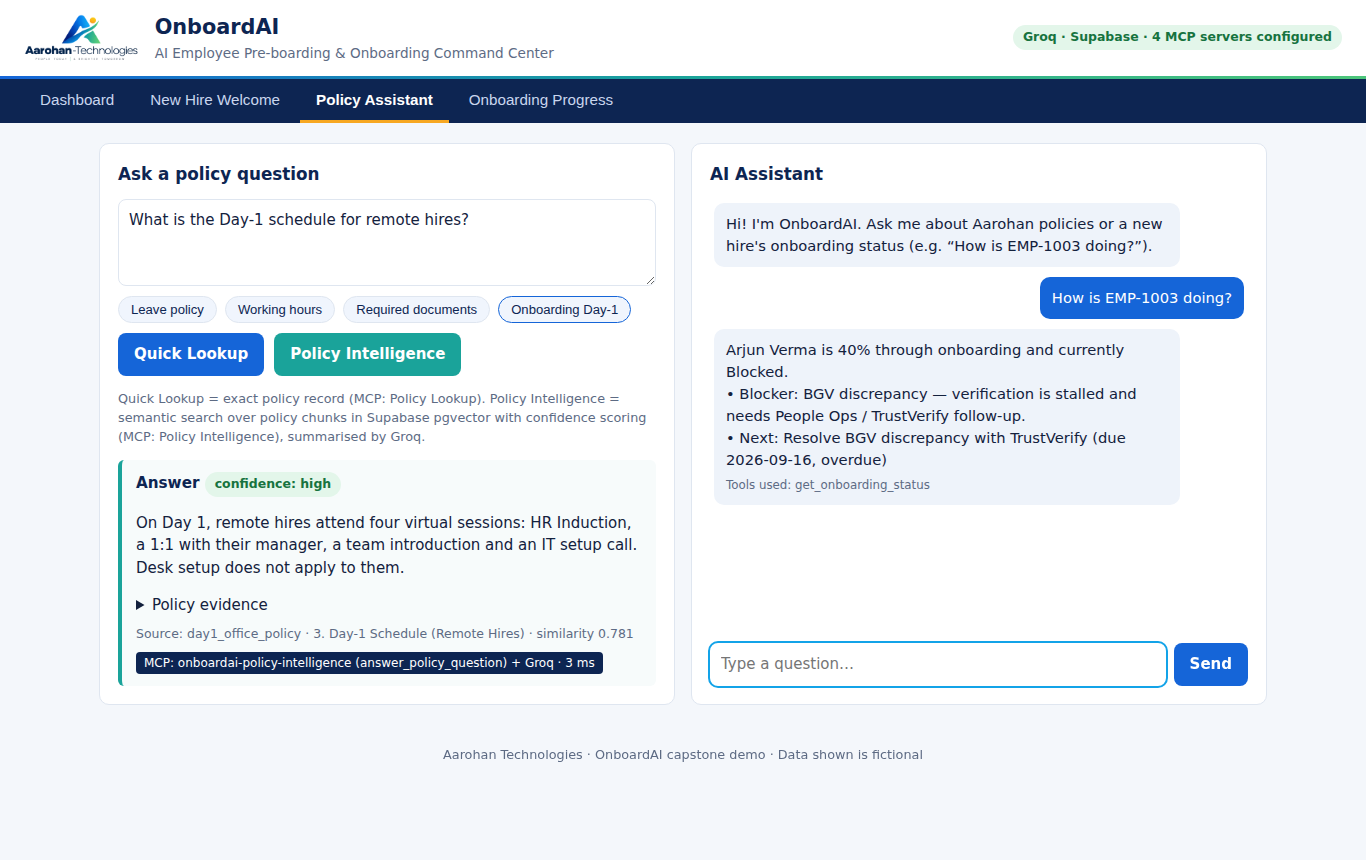
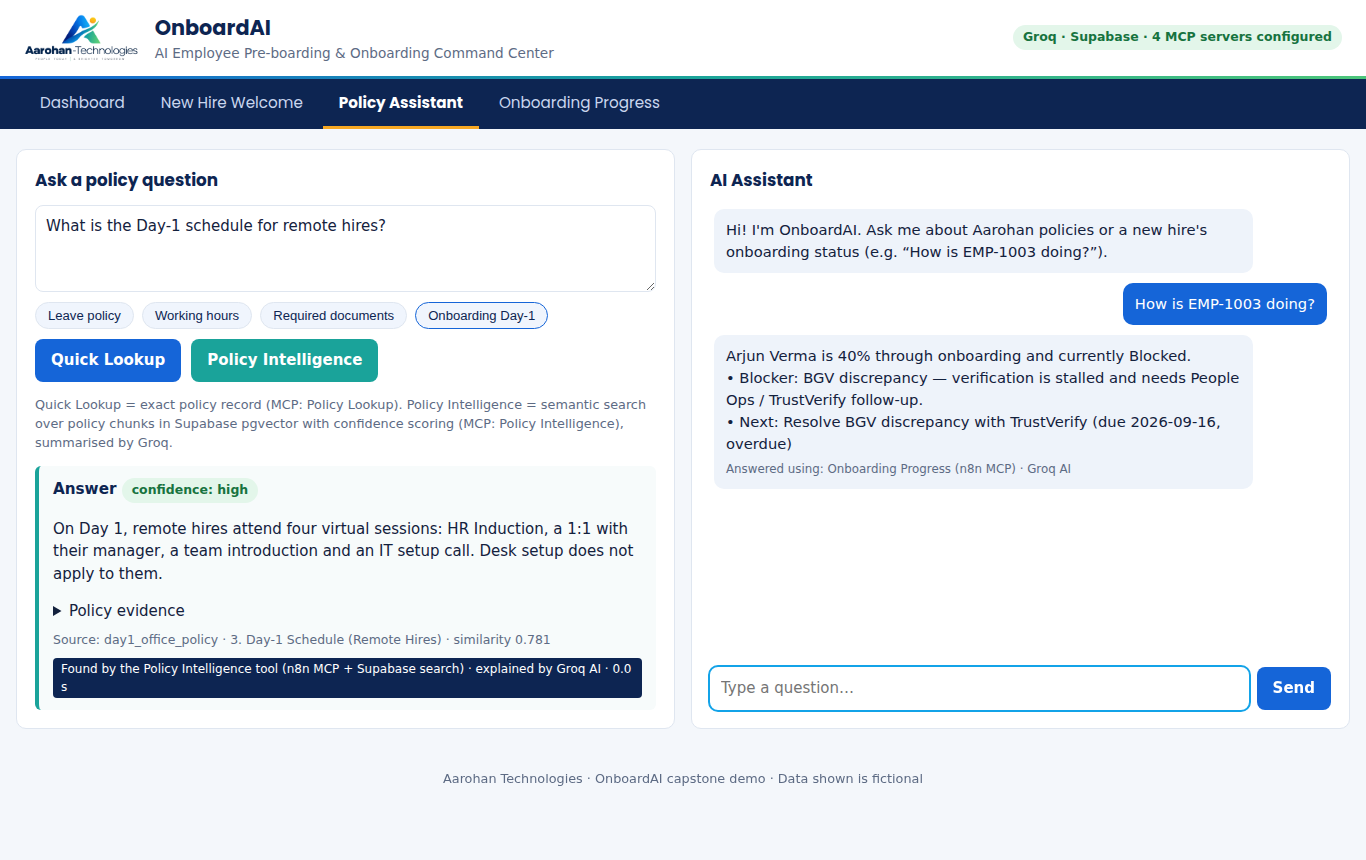
Add files via upload

diff --git a/public/app.js b/public/app.js
@@ -4,6 +4,13 @@ const $ = (s) => document.querySelector(s);
 const esc = (v) => String(v ?? '').replace(/[&<>"']/g, (c) => ({ '&': '&amp;', '<': '&lt;', '>': '&gt;', '"': '&quot;', "'": '&#39;' }[c]));
 let employees = [];
 let chatHistory = [];
+let draftMessage = '';
+const secs = (ms) => (ms ? ` · ${(ms / 1000).toFixed(1)} s` : '');
+const TOOL_NAMES = {
+  get_policy: 'Policy Lookup (n8n MCP)', answer_policy_question: 'Policy Intelligence (n8n MCP)',
+  get_onboarding_status: 'Onboarding Progress (n8n MCP)', list_new_hires: 'New-hire list (Supabase)',
+  escalate_to_human: 'Escalated to People Ops',
+};
 
 async function api(path, body) {
   const res = await fetch('/api' + path, body ? {
@@ -77,23 +84,26 @@ $('#btn-preview').addEventListener('click', async (ev) => {
   try {
     const r = await api('/welcome/preview', { employee_id: id });
     $('#welcome-out').classList.remove('muted');
+    draftMessage = r.message;
     $('#welcome-out').textContent = r.message;
     const emp = r.employee;
     $('#btn-send').disabled = !emp.email;
-    $('#send-out').innerHTML = `<p class="hint">Will email <b>${esc(emp.email || 'no email on file')}</b>${emp.is_virtual ? ' and create a Google Calendar orientation invite (virtual role)' : ' (office role — no calendar invite)'}.</p>`;
+    $('#send-out').innerHTML = `<span class="mcp-badge">${esc(r.source)}</span><p class="hint">Will email <b>${esc(emp.email || 'no email on file')}</b>${emp.is_virtual ? ' and create a Google Calendar orientation invite (virtual role)' : ' (office role — no calendar invite)'}.</p>`;
   } catch (e) { $('#welcome-out').innerHTML = errorBox(e.message); }
   busy(ev.target, false);
 });
+
+$('#welcome-emp').addEventListener('change', () => { draftMessage = ''; $('#btn-send').disabled = true; });
 
 $('#btn-send').addEventListener('click', async (ev) => {
   const id = $('#welcome-emp').value; if (!id) return;
   busy(ev.target, true, 'Calling New Hire Welcome MCP…');
   try {
-    const r = await api('/welcome/send', { employee_id: id });
+    const r = await api('/welcome/send', { employee_id: id, message: draftMessage });
     const d = r.result || {};
     $('#send-out').innerHTML = `<div class="result"><h3>${statusPill(d.overall_status === 'Success' ? 'Complete' : d.overall_status)} ${esc(d.employee_name || id)}</h3>
       Email: <b>${esc(d.email_status)}</b><br>Calendar: <b>${esc(d.calendar_status)}</b>
-      <span class="mcp-badge">${esc(r.source)} · ${r.ms} ms</span></div>`;
+      <span class="mcp-badge">${esc(r.source)}${secs(r.ms)}</span></div>`;
     loadEmployees();
   } catch (e) { $('#send-out').innerHTML = errorBox(e.message); }
   busy(ev.target, false);
@@ -132,13 +142,13 @@ async function askPolicy(mode, btn) {
         ${d.human_review_required ? '<span class="pill warn">human review advised</span>' : ''}</h3>
         ${r.summary ? `<p>${esc(r.summary)}</p><details><summary>Policy evidence</summary><p>${esc(d.answer)}</p></details>` : `<p>${esc(d.answer)}</p>`}
         <span class="source">Source: ${esc(d.source_document || '—')} ${d.source_section ? '· ' + esc(d.source_section) : ''} · similarity ${esc(d.similarity)}</span>
-        <span class="mcp-badge">${esc(r.source)} · ${r.ms} ms</span></div>`;
+        <span class="mcp-badge">${esc(r.source)}${secs(r.ms)}</span></div>`;
     } else {
       const d = r.result || {};
       out.innerHTML = d.status === 'Found'
         ? `<div class="result"><h3>${esc(d.title)}</h3><p>${esc(d.answer)}</p>
            <span class="source">Source: ${/^https?:/.test(d.source_document) ? `<a href="${esc(d.source_document)}" target="_blank" rel="noopener">policy document (Google Drive)</a>` : esc(d.source_document)}</span>
-           <span class="mcp-badge">${esc(r.source)} · ${r.ms} ms</span></div>`
+           <span class="mcp-badge">${esc(r.source)}${secs(r.ms)}</span></div>`
         : `<div class="result error"><h3>No matching policy found</h3>Try Policy Intelligence, or contact People Ops.<span class="mcp-badge">${esc(r.source)}</span></div>`;
     }
   } catch (e) { out.innerHTML = errorBox(e.message); }
@@ -159,7 +169,7 @@ function addMsg(role, text, tools) {
   if (tools?.length) {
     const t = document.createElement('span');
     t.className = 'tools';
-    t.textContent = 'Tools used: ' + tools.map((x) => `${x.tool}${x.ok ? '' : ' (failed)'}`).join(', ');
+    t.textContent = 'Answered using: ' + tools.map((x) => `${TOOL_NAMES[x.tool] || x.tool}${x.ok ? '' : ' (failed)'}`).join(', ') + (tools.some((x) => x.tool === 'escalate_to_human' || x.tool.startsWith('Groq')) ? '' : ' · Groq AI');
     div.appendChild(t);
   }
   $('#chat-log').appendChild(div);
@@ -177,7 +187,7 @@ $('#chat-form').addEventListener('submit', async (ev) => {
   try {
     const r = await api('/chat', { messages: chatHistory });
     thinking.remove();
-    addMsg('bot', r.reply || '(no reply)', r.trace);
+    addMsg('bot', r.reply || '(no reply)', r.trace.length ? r.trace : [{ tool: 'Groq AI only (no tool needed)', ok: true }]);
     chatHistory.push({ role: 'assistant', content: r.reply || '' });
   } catch (e) { thinking.textContent = 'Sorry — ' + e.message; }
   btn.disabled = false;

diff --git a/public/index.html b/public/index.html
@@ -99,7 +99,7 @@
             <button class="btn" id="btn-lookup">Quick Lookup</button>
             <button class="btn accent" id="btn-intel">Policy Intelligence</button>
           </div>
-          <p class="hint">Quick Lookup = exact policy record (MCP: Policy Lookup). Policy Intelligence = semantic search over policy chunks in Supabase pgvector with confidence scoring (MCP: Policy Intelligence), summarised by Groq.</p>
+          <p class="hint"><b>Quick Lookup</b> shows the official policy text. <b>Policy Intelligence</b> searches all Aarohan policy documents, tells you how confident it is, and explains the answer in plain English.</p>
           <div id="policy-out"></div>
         </div>
         <div class="card chat-card">

diff --git a/public/style.css b/public/style.css
@@ -32,7 +32,7 @@ h2 { font-size: 1.05rem; margin-bottom: 12px; }
 .tab:hover { color: #fff; }
 .tab.active { color: #fff; border-bottom-color: var(--sun); font-weight: 600; }
 
-main { max-width: 1200px; margin: 0 auto; padding: 20px 16px; }
+main { max-width: 1480px; margin: 0 auto; padding: 20px 16px; }
 .panel { display: none; }
 .panel.active { display: block; }
 

diff --git a/README.md b/README.md
@@ -1,9 +1,148 @@
-# OnboardAI — Documents
+# OnboardAI — AI Employee Pre-boarding & Onboarding Command Center
 
-| Document | Open in browser | Editable original |
+**Aarohan Technologies** · AI For All 2.0 Cowork Capstone · Use Case 2 (People Ops & Onboarding Concierge)
+
+OnboardAI is a simple web app for People Ops teams and hiring managers. It lets them:
+- send a new hire a personalised welcome email, plus a calendar invite if the role is virtual,
+- answer policy questions using only Aarohan's real policy documents, and
+- see where every new hire stands in onboarding.
+
+Every AI answer comes from a tool: a custom **n8n MCP server** or **Supabase**. The LLM does not answer from its own memory.
+
+
+## 📄 Project documents (for reviewers)
+
+| Document | View in browser | Editable original |
 |---|---|---|
-| Presentation (16 slides) | [OnboardAI-Presentation.pdf](OnboardAI-Presentation.pdf) | [OnboardAI-Presentation.pptx](OnboardAI-Presentation.pptx) (click **Download raw file**, open in PowerPoint) |
-| Product Requirements Document | [PRD.md](PRD.md) | [OnboardAI-PRD.pdf](OnboardAI-PRD.pdf) |
-| Screenshots | [screenshots/](screenshots/) | — |
+| Presentation (16 slides) | [OnboardAI-Presentation.pdf](OnboardAI-Presentation.pdf) | [docs/OnboardAI-Presentation.pptx](docs/OnboardAI-Presentation.pptx) — click **Download raw file**, open in PowerPoint |
+| Product Requirements Document | [docs/PRD.md](docs/PRD.md) | [OnboardAI-PRD.pdf](OnboardAI-PRD.pdf) |
+| n8n workflow backups & migration plan | [n8n-backup/README.md](n8n-backup/README.md) | — |
+| Screenshots | [docs/screenshots/](docs/screenshots/) | — |
 
-GitHub cannot preview PowerPoint files in the browser — use the PDF to view, or download the .pptx.
+---
+
+## Problem
+A new hire's first two weeks involve a dozen scattered things:
+- documents, background checks (BGV) and payroll setup,
+- policies buried in a shared drive,
+- orientation invites nobody remembers to send.
+
+People Ops answers the same questions again and again and chases status by hand. Generic HR bots make this worse: they give confident answers that are wrong for *this* company.
+
+## Solution
+One dashboard with four capabilities:
+
+| Capability | What it does | Powered by |
+|---|---|---|
+| **New Hire Welcome** | Groq drafts a personal note. Clicking Send runs the MCP tool, which emails the hire via **Gmail** and, for virtual roles, creates a **Google Calendar** orientation event. | Groq + `onboard_new_hire` MCP |
+| **Policy Lookup** | Returns the exact policy record with a Google Drive source link. | `get_policy` MCP |
+| **Policy Intelligence** | Semantic search (RAG) over 38 policy chunks in Supabase pgvector, with confidence and human-review flags. Groq rewrites the evidence into plain English. | `answer_policy_question` MCP + Groq |
+| **Onboarding Progress** | Completion %, status, blockers, next priorities, and completed vs pending tasks. | `get_onboarding_status` MCP + Supabase |
+| **AI Assistant (chat)** | Groq decides which tool to call (tool-calling loop) and shows which tools it used. Pay, legal, grievance and termination questions are escalated to a human. | Groq + all MCP tools |
+
+## Architecture
+
+```
+Browser (public/: HTML + CSS + vanilla JS — no secrets)
+   │  fetch /api/*
+   ▼
+Netlify Function  netlify/functions/api.mjs   (holds all keys in env vars)
+   ├── Groq API  (llama-3.3-70b-versatile) — drafting, summarising, tool-calling agent
+   ├── Supabase REST — onboarding_employees, onboarding_tasks, onboarding_activity
+   └── MCP client (Streamable HTTP) ──► n8n MCP Server Triggers
+          ├── onboardai-policy-lookup        → Policy Lookup Engine → n8n Data Table
+          ├── onboardai-policy-intelligence  → Gemini embedding → Supabase pgvector → evidence/confidence logic
+          ├── onboardai-onboarding-progress  → Employees/Tasks/Documents Data Tables → status rules
+          └── onboardai-new-hire-welcome     → Gmail send + Google Calendar event (virtual roles)
+```
+
+It is one serverless function with a small router, and there is no build step. The app has **zero npm dependencies** and uses Node's built-in `fetch`.
+
+## Technology stack
+- **Frontend:** static HTML/CSS/JavaScript. The colours come from the Aarohan logo.
+- **Backend:** Netlify Functions v2 (Node 18+).
+- **LLM:** Groq only. There are no fallback providers.
+- **Data:** Supabase Postgres (+ pgvector for policy chunks).
+- **Tools:** 4 custom n8n MCP servers, backed up as JSON in [`n8n-backup/`](n8n-backup/README.md).
+- **Documents:** policy PDFs in Google Drive, linked from the answers.
+
+## Repository layout
+```
+public/                 index.html, app.js, style.css, logo.png
+netlify/functions/api.mjs   all /api routes
+netlify/lib/            config.mjs, mcp.mjs (MCP client), groq.mjs (LLM + agent + guardrails), supabase.mjs
+tests/                  run-tests.mjs (offline API tests), mocks.mjs, local-server.mjs, screenshots.py, check-secrets.mjs
+n8n-backup/             all n8n workflows + data tables as JSON, restore + migration guide
+docs/                   PRD.md, OnboardAI-Presentation.pptx, screenshots/
+netlify.toml, .env.example
+```
+
+## Environment variables
+| Name | Required | Notes |
+|---|---|---|
+| `GROQ_API_KEY` | Yes | Mark it as a **secret** in Netlify. It is read only on the server. |
+| `GROQ_MODEL` | No | Default: `llama-3.3-70b-versatile`. The live site uses `openai/gpt-oss-120b`. |
+| `SUPABASE_URL` | Yes | `https://<project>.supabase.co` |
+| `SUPABASE_ANON_KEY` | Yes | The anon/publishable key. It is still kept server-side. |
+| `MCP_POLICY_LOOKUP_URL`, `MCP_POLICY_INTELLIGENCE_URL`, `MCP_ONBOARDING_PROGRESS_URL`, `MCP_NEW_HIRE_WELCOME_URL` | No | Default to the current n8n cloud endpoints. |
+| `MCP_AUTH_HEADER` | No | `Header-Name: value`, used if you add header auth to the MCP triggers. |
+
+## Run locally
+1. Install Node 18 or newer.
+2. Run the offline tests (they mock Groq, Supabase and n8n; no keys needed): `npm test`
+3. Open a local preview with mocked services: `node tests/local-server.mjs`, then go to http://localhost:8888
+4. Run locally against the real services:
+   - `cp .env.example .env`, then fill in the values.
+   - Run `npx netlify-cli dev`, or run `node --env-file=.env tests/local-server.mjs --live`.
+
+## Deploy to Netlify
+1. In Netlify, go to **Add new project → Import an existing project → GitHub** and pick this repository. If the `aarohan-onboardai` project already exists, go to *Project configuration → Build & deploy → Link repository* instead.
+2. Build settings are read from `netlify.toml`: publish `public`, functions `netlify/functions`, and no build command.
+3. Under **Project configuration → Environment variables**, add `GROQ_API_KEY` (secret), `SUPABASE_URL` and `SUPABASE_ANON_KEY`.
+4. Deploy. Then open `https://<site>.netlify.app/api/selftest`. It checks Supabase, all 4 MCP servers and Groq, and it **does not** send any email.
+5. Make sure visitor access is not locked to your Netlify team (*Project configuration → Access & security*) so reviewers can open the site.
+
+## MCP integrations
+| Endpoint | Tool | Arguments | Returns |
+|---|---|---|---|
+| `…/mcp/onboardai-policy-lookup` | `get_policy` | `topic` | policy_topic, title, answer, source_document, status |
+| `…/mcp/onboardai-policy-intelligence` | `answer_policy_question` | `question` | answer, source_document, source_section, similarity, confidence, human_review_required |
+| `…/mcp/onboardai-onboarding-progress` | `get_onboarding_status` | `employee_id` | completion_percentage, status, counts, blockers, next_priorities |
+| `…/mcp/onboardai-new-hire-welcome` | `onboard_new_hire` | employee_id, employee_name, email, isVirtual, department, role_title, joining_date, welcome_message | email_status, calendar_status, overall_status |
+
+The app speaks MCP directly (`netlify/lib/mcp.mjs`). Each call runs initialize → notifications/initialized → tools/call over Streamable HTTP, and the client handles both JSON and SSE responses. The same endpoints are also added to Claude Cowork as custom connectors.
+
+## Supabase usage
+- `onboarding_employees`, `onboarding_tasks`: the new-hire list and task checklist. The app can add new hires.
+- `onboarding_activity`: an audit log of welcomes sent and chat tool usage.
+- `policy_documents`, `policy_chunks` (pgvector, 768 dimensions): used by the Policy Intelligence MCP through the SQL function `match_policy_chunks` ([`supabase/match_policy_chunks.sql`](supabase/match_policy_chunks.sql)).
+- Progress for a hire who exists only in Supabase (added through the app) is calculated in the function using the same rules as the MCP engine. The page labels which source was used.
+
+## Groq integration
+- `POST /api/welcome/preview` drafts the personalised welcome note.
+- `POST /api/policy` (intelligence mode) turns the retrieved evidence into a plain-English answer. It only runs when the MCP returns a confident answer.
+- `POST /api/chat` is a tool-calling agent. It can call up to 4 tool rounds, then gives its final answer.
+
+## Security
+- The Groq key and Supabase key exist only in Netlify environment variables. The browser never receives them, and `/api/health` reports only true/false for each.
+- `.env` is git-ignored. `.env.example` contains variable names only. `npm run check-secrets` scans the repo for key patterns.
+- The n8n backups have all credentials stripped.
+- Input is validated: employee IDs must match `EMP-\d+` and question length is capped. All output is HTML-escaped in the browser.
+- Guardrails: questions about pay, legal matters, grievances or termination are escalated to a human and never answered by the LLM. The assistant is told never to share one employee's data with another employee.
+- RLS is on for every table. The demo policies allow the anon role to read and insert onboarding data (fictional data only). **Tighten these before using real employee data.**
+
+## Known limitations
+- The n8n cloud trial ends in about 8 days. The workflows are backed up and a migration plan is written up.
+- The MCP endpoints have no authentication (the course allows this). Only fictional data is exposed.
+- There is no user login. Anyone with the URL can view the fictional demo data and trigger welcome emails.
+- The progress MCP reads n8n Data Tables. New hires added in the app use a Supabase-based calculation until the data is unified.
+- Policy Intelligence uses Gemini embeddings inside n8n, because the stored vectors were made with that model. Groq is the only *chat* LLM.
+- There is no Slack or task-tool connector in the web app itself. Those are used through Cowork.
+
+## Future improvements
+- Move the MCP tools to Supabase Edge Functions (see [`n8n-backup/README.md`](n8n-backup/README.md)).
+- Add login (Supabase Auth) with roles: new hire, manager, People Ops.
+- Send a day-3 proactive nudge (scheduled function) to hires with incomplete tasks.
+- Add a Slack welcome and buddy assignment. Let new hires upload documents.
+
+See [`docs/PRD.md`](docs/PRD.md) for the full product requirements.

diff --git a/n8n-backup/README.md b/n8n-backup/README.md
@@ -32,7 +32,8 @@ Full URL = `https://aparbatlearn.app.n8n.cloud` + path.
 3. In each Engine, **re-point every Data Table node** to your new table IDs. The old IDs are `rE0SYvDEpq8ZDGzR` (Employees), `UrT5HV43x3HX6ZvY` (Tasks), `duVEApIHmfhTR5JE` (Documents) and `dnmeCejlY1E7SR3C` (Policies).
 4. **Re-attach credentials.** Look for any node showing `REPLACE_ME`:
    - Gmail OAuth2 and Google Calendar OAuth2 (New Hire Welcome).
-   - Google Gemini API and Postgres (Policy Intelligence). For Postgres, use the Supabase session-pooler connection string.
+   - Google Gemini API (Policy Intelligence).
+   - In Policy Intelligence → "Query Policy Chunks (Supabase)", replace `REPLACE_ME_SUPABASE_ANON_KEY` (2 places) with the Supabase anon key. The SQL function it calls is in [`../supabase/match_policy_chunks.sql`](../supabase/match_policy_chunks.sql).
 5. **Import the 4 `*-mcp.json` wrappers.** In each one, open the tool node and change **Workflow** to the new ID of its Engine.
 6. **Activate** the 4 MCP wrappers. The endpoint paths stay the same, so only the hostname changes. Put the new URLs in the app's `MCP_*_URL` environment variables.
 7. `policy-embedding-ingestion.json` only needs a re-run if the policy text changes. The embeddings already live in Supabase (`policy_chunks`, 38 rows, 768 dimensions).
@@ -52,6 +53,10 @@ The goal is to run the same 4 tools on free, permanent infrastructure. Suggested
 
 Order of work: data → Progress → Lookup → Intelligence → Welcome (it has OAuth, so it is the hardest). Test each one with the app's `/api/selftest` endpoint after switching its `MCP_*_URL`.
 
+## Change log
+
+- **25 Sep 2026 (afternoon):** New Hire Welcome now accepts `department`, `role_title`, `joining_date` and `welcome_message`, and uses a new email template with the logo in the signature. Policy Intelligence now calls the Supabase function `match_policy_chunks` over HTTP instead of a Postgres node, because no Postgres credential existed and the workflow could not be activated.
+
 ## Regenerating these files
 
-The `tools/*.py` scripts rebuild every JSON file from the workflow definitions. Run `python3 build_mcp_and_engines.py`, `python3 build_ingestion.py` and `python3 build_data_tables.py`.
+The `tools/*.py` scripts built the first version of these files. The **JSON files are now the source of truth**, because they include the changes listed above.
